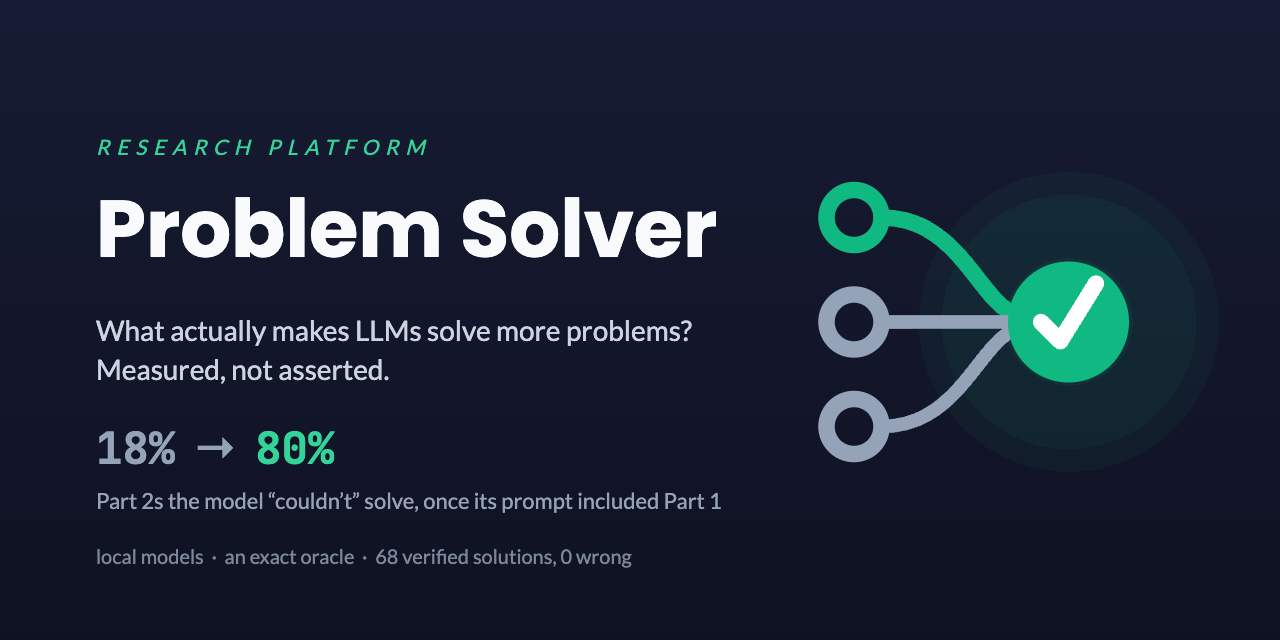
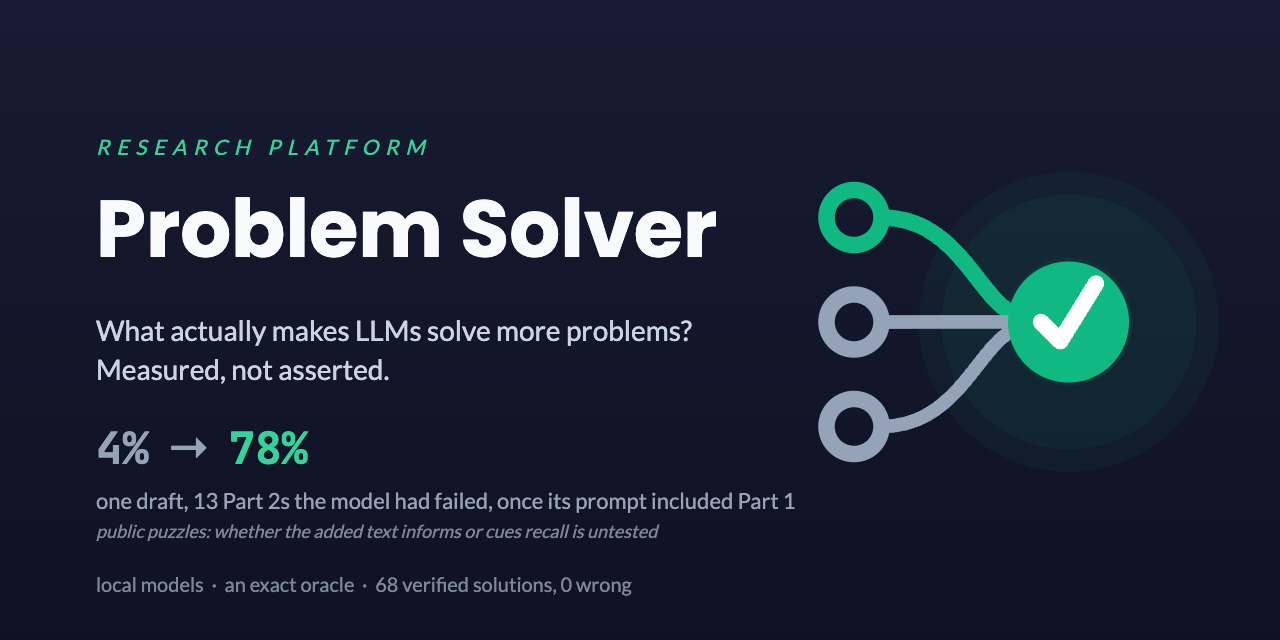
Matched headline with its contamination caveat; held-out test plan; token bound 3.09x
The headline compared 13/71 (all trials, any draft count) with 32/40 (single
drafts, Part 1 solved). Matched on single drafts and the same 13 problems it is
2/53 -> 29/37; the d19 p2 A/B (6/20 -> 19/19) is the controlled test. The
contamination section now says the prompt fix and model choice are not covered
by the same-inputs argument. part2-context-heldout-plan.md registers the test
that separates information from recall. The arm-2 token lower bound is 3.096x,
so 'at least 3.10x' becomes 'at least 3.09x'.

Changed region(s): [[0.0625, 0.6562, 0.625, 0.9375]]

diff --git a/assets/social-preview.html b/assets/social-preview.html
@@ -23,6 +23,7 @@
   .stat .to { color: #34d399; }
   .stat .arrow { font-family: Lato, sans-serif; margin: 0 18px; }
   .caption { font-size: 22px; color: #94a3b8; margin-top: 10px; }
+  .caveat { font-size: 18px; color: #7c879b; margin-top: 6px; font-style: italic; }
   .footer { font-size: 20px; color: #7c879b; margin-top: 30px; }
   .glyph { position: absolute; left: 810px; top: 168px; }
   /* centred on the glyph's check circle (47, 28 of 60 x 56) */
@@ -38,8 +39,9 @@
     <div class="kicker">RESEARCH PLATFORM</div>
     <h1>Problem Solver</h1>
     <div class="question">What actually makes LLMs solve more problems?<br>Measured, not asserted.</div>
-    <div class="stat">18%<span class="arrow">&rarr;</span><span class="to">80%</span></div>
-    <div class="caption">Part 2s the model &ldquo;couldn&rsquo;t&rdquo; solve, once its prompt included Part 1</div>
+    <div class="stat">4%<span class="arrow">&rarr;</span><span class="to">78%</span></div>
+    <div class="caption">one draft, 13 Part 2s the model had failed, once its prompt included Part 1</div>
+    <div class="caveat">public puzzles: whether the added text informs or cues recall is untested</div>
     <div class="footer">local models &nbsp;&middot;&nbsp; an exact oracle &nbsp;&middot;&nbsp; 68 verified solutions, 0 wrong</div>
   </div>
   <div class="halo"></div>

diff --git a/RESULTS.md b/RESULTS.md
@@ -9,8 +9,10 @@ can be A/B'd for a real delta over repeat trials.
 
 - **The biggest effect was the harness.** Until 2026-10-13 every Part 2 was posed without its
   Part 1 statement, and the model appeared to fall off a cliff between the two parts. With the
-  statement in the prompt, the reference model solves 32 of 40 trials of the Part 2s it had
-  failed, against 13 of 71 before. What looked like a capability limit was a measurement defect.
+  statement in the prompt, single drafts on 13 Part 2s the reference had failed went from 2 of 53
+  trials solved to 29 of 37; in the controlled test, 2024 d19 p2, from 6/20 to 19/19. What looked
+  like a capability limit was mostly missing information. The puzzles are public, so the added
+  text may also cue recall; that is not yet separated (see contamination).
 - **Sampling helps where a single draft succeeds part of the time, and the draws behave as
   independent.** Under the original harness, three attempts with repair took the model's
   "sometimes" problems from 42% to 75%, replicated on a second year (combined p ≈ 0.005). Under the
@@ -22,7 +24,7 @@ can be A/B'd for a real delta over repeat trials.
   mix had nothing to add. Repair also depends on the model: 2 of the reference's 145 solves came
   from repair, against 14 of 131 for that candidate.
 - **Cheap draws win on time and lose on tokens.** A fast weak model taking four times the draws
-  costs 0.64× the wall-clock per solution and at least 3.10× the tokens, and does not reach the
+  costs 0.64× the wall-clock per solution and at least 3.09× the tokens, and does not reach the
   strong model's ceiling.
 - **What still fails is mostly speed.** On the hardest problems the commonest failure is a
   program that runs past the 60 s timeout on the full input, often after passing the example.
@@ -70,10 +72,17 @@ input. Re-run under it:
 
 | | original harness | corrected harness |
 |---|---|---|
-| 2024 d19 p2 | 6/20 | **19/19** (Fisher p = 2.6e-6) |
+| 2024 d19 p2, one draft, only the context changed | 6/20 | **19/19** (one-sided Fisher p = 2.6e-6) |
 | 2024 d16 p2 | 0/7 | **3/3** |
-| 2025 d9 p2 | 0/22, three models | **3/5** at three drafts |
-| the reference's 15 other failing Part 2s | 13/71 | **32/40** reached, against 40/45 for their Part 1s |
+| 2025 d9 p2 | 0/22, three models (the reference 0/16) | **3/5** at three drafts |
+| 13 other Part 2s the reference had failed, one draft | 2/53 | **29/37** |
+
+The d19 row is the controlled A/B: same machine, a day apart, 20 trials each, the context the
+only setting changed, prediction registered. The 13-problem row is broader and less controlled:
+its "before" trials ran on two machines between August and October, its "after" run also changed
+the example source and the analysis temperature, and it counts only trials whose Part 1 was
+solved (5 were not). Counting every trial at any number of drafts, those Part 2s were 13/71 on
+record and 32/40 after; 11 of the 13 earlier solves came from three-draft trials.
 
 Ten Part 2s the reference had never solved were solved, and the ledger went from 56 to 66. The
 Part 1/Part 2 cliff seen in both years' scans is not established; the "walls" that had become
@@ -136,11 +145,11 @@ At a matched wall-clock budget, a fast weak model taking many draws vs a slow st
 | config | solved | **s / verified solution** | **tokens / verified solution** |
 |---|---|---|---|
 | `qwen3.8:27b` k=3 (slow, strong) | **8/8** | 1,389 s | **38,460** |
-| `qwen3-coder:30b` k=12 (fast, weak) | 7/8 | **891 s** (0.64×) | ≥119,068 (≥3.10×) |
+| `qwen3-coder:30b` k=12 (fast, weak) | 7/8 | **891 s** (0.64×) | ≥119,068 (≥3.09×) |
 
 **The answer depends on which cost you actually pay.** For local GPU inference, where cost is
 *time*, many cheap draws win by 36% per verified solution. For a token-metered API they lose by
-at least 3.10× (a lower bound: the five repair records' own cost was not recorded, see the defect
+at least 3.09× (a lower bound: the five repair records' own cost was not recorded, see the defect
 table). And volume does not close the capability gap — 7/8 vs 8/8.
 
 **The useful form of the claim:** *cheap draws beat one expensive pass when the binding cost is time,
@@ -263,7 +272,7 @@ Twelve instrument defects, each of which made results *look better or worse than
 | Repair ignored the configured temperature | a temperature experiment reached only ~1/3 of generations |
 | `success_rate` recorded at generation time, `success=True` for anything that parsed | **the sole signal model ranking used measured "returned code", not "solved the problem"** |
 | `StrategyOptimizer` read a second, dead database (0 rows) | strategy effectiveness computed over no data at all |
-| That token fix stopped at the provider; the solver kept copying the draft's tokens and time onto every repair record *(found 2026-10-12)* | **642 of 642 repair records wrong, in runs after the "fix" too**; arm 2's 3.35× is really "at least 3.10×" |
+| That token fix stopped at the provider; the solver kept copying the draft's tokens and time onto every repair record *(found 2026-10-12)* | **642 of 642 repair records wrong, in runs after the "fix" too**; arm 2's 3.35× is really "at least 3.09×" |
 | Part 2 prompts carried only the "Part Two" article: no rules, no input format *(found 2026-10-13)* | **on 2024 d19 p2 a draft was right only if it guessed the format (16 of 26 that did, 0 of 54 that did not)**; re-run with the statement, the Part 1/Part 2 cliff and most Part 2 walls dissolved (above) |
 | Example tests paired with an illustration instead of the example input *(found 2026-10-13, fixed 2026-10-14)* | a verified program failed its own example test on 25 of 46 audited problems (3 after the fix); solves are unaffected (the oracle decides), **every repair prompt on those problems carried a false failure** |
 | A last day's "Part Two" with no puzzle was attempted and scored as a miss *(found 2026-10-12)* | denominators off by one in two scans (16/24, 9/20), and **a nonexistent problem written up as "the first genuinely unseen problem"** |
@@ -295,13 +304,26 @@ seen more of this benchmark". A newer model is both stronger *and* more likely t
 2024/2025 corpus, and those two explanations are entangled here. **Treat the capability numbers as
 descriptive of this testbed, not as a capability measurement.**
 
-**Largely robust to contamination — the orchestration comparisons.**
-Arm 1 compares *configurations of the same model on the same problems*. Whatever the model
-memorized, it memorized identically in both arms, so contamination cannot explain a difference
-between k=1 and k=3. Arm 2 compares two models, so its 7/8 against 8/8 shares the capability
-caveat; its time-against-tokens split is a cost ratio per solution and less exposed. The mechanism
-findings — that sampling converts "sometimes" into "solved", that volume buys stochastic but not
-systematic failures — do not depend on the problems being unseen.
+**Largely robust to contamination — comparisons that change only the strategy.**
+Arm 1 compares *configurations of the same model on the same problems with the same prompt*.
+Whatever the model memorized, it memorized identically in both arms, so contamination cannot
+explain a difference between k=1 and k=3. Arm 2 compares two models, so its 7/8 against 8/8 shares
+the capability caveat; its time-against-tokens split is a cost ratio per solution and less
+exposed. The mechanism findings — that sampling converts "sometimes" into "solved", that volume
+buys stochastic but not systematic failures — do not depend on the problems being unseen.
+
+**Not covered by that argument — comparisons that change the prompt or the model.**
+- *The Part 2 prompt fix.* Adding the Part 1 statement changes the input, not just the strategy.
+  The added text carries the rules and input format the model lacked, and it is also the puzzle's
+  published wording, which can cue recall of solutions seen in training. The before/after rates
+  show the fix works on these puzzles; they cannot show how much is information and how much is
+  recall. The saved drafts do show why the old prompt failed: on 2024 d19 p2 none of the 54 first
+  drafts that guessed the input format wrong was correct, which is missing information, not
+  missing capability. A test that separates information from recall is designed in
+  `dev/progress/part2-context-heldout-plan.md`.
+- *Model choice (arm 3).* `muse-glimmer:30b` solved 2024 d14 p2 10 of 10 times against the
+  reference's 1 of 10. Two models trained on different data may have memorized different puzzles,
+  so this compares capability and shares the caveat above.
 
 **A partial argument against pure memorization, offered as weak evidence only.**
 Under the original harness the frontier band consisted of problems the model solved *sometimes* —

diff --git a/README.md b/README.md
@@ -16,8 +16,11 @@ and, more to the point, whether that could be *measured* rather than asserted.
 >   judge (an *oracle*) runs each one against the real input and checks it against the known-correct
 >   answer, so every claim about orchestration is an A/B over repeat trials.
 > - **The biggest effect was the harness, not the strategy.** Part 2 prompts were missing the Part 1
->   statement. Fixed, the reference model solves 32 of 40 trials of the Part 2s it had failed
->   (13 of 71 before): an apparent capability cliff was a measurement defect.
+>   statement, so drafts had to guess the rules and input format. On 13 Part 2s the reference
+>   model had failed, single drafts went from 2 of 53 trials solved to 29 of 37 once the prompt
+>   included Part 1: an apparent capability cliff was mostly missing information. *Caveat:* the
+>   puzzles are public, and the added Part 1 text is also their published wording, which may cue
+>   recall; a test that separates the two is planned.
 > - **Sampling helps where a single draft succeeds part of the time**, because draws behave as
 >   independent. It took the model's "sometimes" problems from **42% to 75%** under the original
 >   harness, replicated on a second year; under the corrected harness few problems sit in that
@@ -26,8 +29,9 @@ and, more to the point, whether that could be *measured* rather than asserted.
 >   the reference solved 1 of 10, with nothing found the other way. Cheap draws win on time and lose
 >   on tokens.
 > - **The caveat** — the puzzles are public and pre-date the models, so a model may have trained on
->   solutions. That softens the *"how capable is the model?"* numbers, not the comparisons of one
->   strategy against another on the same problems.
+>   solutions. That softens the *"how capable is the model?"* numbers and any comparison that
+>   changes the prompt or the model, not comparisons of one strategy against another with the same
+>   model, prompt and problems.
 > - **Where to go next** — [RESULTS.md](RESULTS.md) for the full science · [How it works](#how-it-works)
 >   for the pipeline · [Getting started](#getting-started) to run it yourself.
 
@@ -53,8 +57,8 @@ and, more to the point, whether that could be *measured* rather than asserted.
 - **Self-repair** — show the model its own execution error (the traceback) and let it try again. Adds
   real information, not just another roll of the dice.
 - **Contamination** — the puzzles are public and predate the models, so a model may have trained on
-  solutions to them. It muddies *"how capable is the model"* but not *"does coordinating attempts
-  help."*
+  solutions to them. It muddies *"how capable is the model"*, and any comparison that changes the
+  prompt or the model, but not a comparison of strategies with the same model, prompt and problems.
 
 </details>
 
@@ -102,9 +106,15 @@ statement, answer and program in the prompt:
 
 | | before | after |
 |---|---|---|
-| 2024 d19 p2 | 6/20 | **19/19** |
-| 2025 d9 p2 (three models) | 0/22 | **3/5** |
-| the reference's 15 other failing Part 2s | 13/71 | **32/40** |
+| 2024 d19 p2, one draft, only the context changed | 6/20 | **19/19** |
+| 13 other Part 2s the reference had failed, one draft | 2/53 | **29/37** |
+| 2025 d9 p2, three drafts | 0/22 (three models) | **3/5** |
+
+The 13-problem row compares single-draft trials only; its "before" trials ran on two machines
+over two months, and its "after" changed two smaller settings alongside the context. The d19 row
+is the controlled test. The puzzles are public, so the added Part 1 text is information and also
+possibly a memory cue ([contamination](RESULTS.md#training-data-contamination-the-largest-threat-to-validity));
+`dev/progress/part2-context-heldout-plan.md` designs the test that separates them.
 
 The "Part 1/Part 2 cliff" seen in two years of scans, and the "walls" that had become the project's
 most reproducible results, were mostly this defect. One Part 2, 2024 d24 p2, is still unsolved by
@@ -164,10 +174,10 @@ At a matched wall-clock budget, a fast weak model taking many draws vs a slow st
 | | solved | **s / verified solution** | **tokens / verified solution** |
 |---|---|---|---|
 | `qwen3.8:27b` k=3 (slow, strong) | **8/8** | 1,389 s | **38,460** |
-| `qwen3-coder:30b` k=12 (fast, weak) | 7/8 | **891 s** (0.64×) | ≥119,068 (≥3.10×) |
+| `qwen3-coder:30b` k=12 (fast, weak) | 7/8 | **891 s** (0.64×) | ≥119,068 (≥3.09×) |
 
 For local GPU inference, where cost is *time*, many cheap draws win by 36% per verified solution.
-For a token-metered API they lose by at least 3.1×. And volume does not close the capability gap —
+For a token-metered API they lose by at least 3.09×. And volume does not close the capability gap —
 7/8 vs 8/8. (`economic-arm-moe-vs-generalist.md`)
 
 **6. Model *generation* beats model *size*.**
@@ -332,7 +342,7 @@ corrected harness the draft rates are mostly near 0% or 100%, three drafts gave 
 and the arm awaits a powered test on 2025 d9 p2 (finding 2).
 
 **Arm 2 — economics, and it splits.** *Many cheap draws beat one expensive pass* is **true on
-wall-clock** (0.64× per verified solution) and **false on tokens** (at least 3.1×), and volume does not reach
+wall-clock** (0.64× per verified solution) and **false on tokens** (at least 3.09×), and volume does not reach
 the stronger model's ceiling (7/8 vs 8/8). The useful form of the claim: *cheap draws win when the
 binding cost is time, not tokens, and only up to the cheap model's ceiling.*
 (`economic-arm-moe-vs-generalist.md`)

diff --git a/dev/progress/part2-context-heldout-plan.md b/dev/progress/part2-context-heldout-plan.md
@@ -1,0 +1,86 @@
+# Plan: does the Part 1 context inform, or cue recall? — registered design, not yet run
+
+**Status (2026-11-09): design only.** No code written, nothing run. Needs the maintainer's go, a
+small harness change (below), and hand-checked text variants for ten problems.
+
+## The question
+
+Posing Part 2 with Part 1's statement raised single-draft solves from 6/20 to 19/19 on 2024 d19 p2
+(the controlled A/B, `part2-prompt-omits-part1.md`) and from 2/53 to 29/37 on 13 other Part 2s the
+reference had failed (`m5pro-rescan-part2-aoc.md`). The added text does two things at once. It
+supplies the rules and input format, and it is the puzzle's published wording, which can cue
+recall of solutions the model saw in training. The external claim, "missing context looked like a
+capability limit", needs the first to carry the effect. The saved d19 drafts show the old prompt
+failed for want of information (none of the 54 drafts that guessed the input format wrong was
+correct); they do not show that the fix works by information alone.
+
+## Arms
+
+The corrected context is a bundle: Part 1's statement, its accepted answer, a Part 1 program, and
+a preview of the input (`shared/problem_context.py`). Only the statement is published wording, so
+the arms vary the statement and hold the rest fixed.
+
+| arm | Part 1 statement | rest of the bundle | tests |
+|---|---|---|---|
+| **A0 cold** | none | none | baseline (`problem_context=legacy`) |
+| **A1 verbatim** | published text | yes | the current default |
+| **A2 paraphrase** | same rules, input format and worked example; new story, names and wording; example values changed and its answer recomputed with the verified Part 1 solution | yes | information without the published wording |
+| **A3 cue only** | published text with the input-format description and worked example removed; title, story and distinctive phrasing kept | no | the recall cue without the information |
+
+The Part 2 article is published wording in every arm, A0 included, so A3 measures the cue that
+Part 1's text *adds*.
+
+**Held constant across arms:** model `qwen3.8:27b`, `samples_per_model=1`, `temperature=0.7`,
+`enable_thinking=false`, `enable_fallback_models=false`, the current `example_tests` and
+`analysis_temperature`, one machine (`m5pro-64`), one Ollama version, arm order rotated within
+each trial so drift cannot line up with an arm. Part 2 is posed directly in every arm, with the
+verified Part 1 program where the bundle is used, so no arm depends on the trial solving Part 1
+first (the rescan lost 5 of 45 trials to that gate).
+
+**Cells (10):** 2024 d9, d11, d14, d16, d18, d19, d20, d22 p2; 2025 d2, d4 p2. Each was solved by
+at most one single draft under the old prompt and by most drafts under the new one, so the arms
+have room to differ in both directions.
+
+## Size and time
+
+3 trials per cell per arm, 30 Part 2 trials per arm, 120 in all. At the observed rates
+(A0 about 5%, A1 about 85%), 30 per arm detects a 30-point difference with about 80% power at
+one-sided α = 0.05 (80% against 50% needs 30 per arm; 5% against 30% needs 25). It cannot show
+two arms are *equal*: the 95% interval on a difference at n = 30 is roughly ±20 points, so "A2
+matches A1" is read as "within that interval", not as equivalence. Trials cluster by problem;
+per-cell results are reported alongside the pooled rate.
+
+Time on `m5pro-64`: a single-draft Part 2 trial took 91–250 s in the d19 A/B and the rescan; at
+about 200 s, 120 trials is **about 7 GPU-hours**, run in two or three chunks, plus a `--trials 3`
+plumbing check of the new arms on one cell first.
+
+## Registered predictions and readings
+
+Written before any run; rates are pooled over the 10 cells.
+
+| outcome | reading |
+|---|---|
+| A2 within 15 points of A1, and A3 within 15 points of A0 | **information carries the effect.** The headline stands as stated. |
+| A3 at least 25 points above A0 | **the published wording alone helps**, so recall contributes; the headline must say so. |
+| A2 at least 25 points below A1 | **the wording matters beyond its information**; same consequence. |
+| anything else | inconclusive at this size; report the intervals, do not restate the headline. |
+
+## The clean confirmation: AoC 2026
+
+Paraphrase removes the published wording but not the puzzle's structure, which a model may also
+recall. Problems published after the model's training cutoff remove both. AoC 2026 opens
+2026-12-01 with 12 days: run **A0 against A1** on each day's Part 2, single draft, 3 trials per
+arm, once Part 1 is solved on the account (Part 2's text is only visible then). About 36 trials per
+arm and about 4 GPU-hours spread over the event. **A1 at least 30 points above A0** on unseen
+problems confirms that the context effect does not need recall; a gap under 15 points undercuts
+the headline whatever the paraphrase arms showed.
+
+## What it needs before running
+
+- **Harness:** `problem_context` values for A2 and A3 that read a per-problem Part 1 text file,
+  and a runner option that poses Part 2 without running Part 1 first. Both enter the fingerprint.
+- **Text variants:** ten paraphrases and ten cue-only versions, drafted and then checked by hand
+  against the original for preserved (A2) or removed (A3) information. They derive from AoC's
+  text, so they live under `years/` (gitignored) like the originals, with their hashes recorded
+  in the result write-up.
+- **AoC 2026:** the submitter wired, or Part 1 solved by hand each day (`PLAN.md`, §5).

diff --git a/PLAN.md b/PLAN.md
@@ -636,7 +636,7 @@ bug is fixed** (below): a cost claim measured with broken cost accounting is wor
   usage, so repair records kept copying their draft's tokens and time, in every run before and
   after it (642 of 642). ✅ **Fixed at the record 2026-10-12** (`repair-accounting-unwired.md`).
   Old token totals are neither upper nor lower bounds; the draft-only sum is a lower bound. Arm 2's
-  3.35× becomes "at least 3.10×".
+  3.35× becomes "at least 3.09×".
 - ~~**Repair calls that yield no new candidate leave no record.**~~ ✅ **FIXED 2026-10-13**: each
   is recorded as a `repair` / `no_candidate` attempt with its own tokens and time. Attempt counts
   from that date include them.
@@ -713,7 +713,7 @@ own thesis and neither of the other two. **Three steps finish every arm, then on
    targets first, and only run an ensemble if one solves something the others reliably miss.*
 3. ~~**The economic A/B**~~ — ✅ **DONE 2026-08-23** (`economic-arm-moe-vs-generalist.md`).
    **Arm 2 splits by which cost you pay:** per verified solution the fast weak model at k=12 is
-   **0.64× the wall-clock** (891 s vs 1,389 s) but **3.35× the tokens** (128,730 vs 38,460; *at least 3.10× after the 2026-10-12 correction*), and it
+   **0.64× the wall-clock** (891 s vs 1,389 s) but **3.35× the tokens** (128,730 vs 38,460; *at least 3.09× after the 2026-10-12 correction*), and it
    does not reach the ceiling (7/8 vs 8/8). True for local GPU inference, false for token-metered
    APIs, and bounded by the cheap model's ceiling. Volume bought the stochastic failure (d5 p1,
    ~25%/draw parsing) and not the systematic one (d6 p2, 6/6 identical `TypeError`s).

diff --git a/dev/progress/repair-accounting-unwired.md b/dev/progress/repair-accounting-unwired.md
@@ -61,7 +61,7 @@ call carrying the failed code and its feedback; a draft is an analysis call plus
 call. Which is larger was not known when this was written, so the old totals are neither upper
 nor lower bounds. *(First measurement, 2026-10-12, `m5pro-d19p2-power.md`: a repair cost about a
 quarter of a draft — 1.5–2.1k tokens against 7k — on one problem and one model. If that holds
-elsewhere the old totals overstate, and arm 2's ratio lies between 3.10× and 3.35×.)* **The
+elsewhere the old totals overstate, and arm 2's ratio lies between 3.09× and 3.35×.)* **The
 draft-only sum is a firm lower bound on a run's true cost**, and is what the corrections below use.
 
 ## Claims that rested on token totals
@@ -69,7 +69,7 @@ draft-only sum is a firm lower bound on a run's true cost**, and is what the cor
 - **Arm 2, "loses 3.35× on tokens"** (`economic-arm-moe-vs-generalist.md`). The generalist arm
   made no repairs, so its 307,684 is sound. The MoE arm's 901,111 includes 67,635 copied onto 5
   repair records; its drafts alone are 833,476, or 119,068 per verified solution. **The ratio is
-  at least 3.10×**, and higher by whatever the five repairs really cost. The direction and rough
+  at least 3.09×**, and higher by whatever the five repairs really cost. The direction and rough
   size of the finding stand; the figure 3.35× is not a measurement.
 - **Arm-3 pre-check, "no token penalty"** (`arm3-precheck-qwen36-35b.md`). 44–48% of both arms'
   totals were copies. On drafts alone: candidate 803,969 for 7 solves (115k each), reference

diff --git a/dev/progress/checkpoint.md b/dev/progress/checkpoint.md
@@ -238,7 +238,7 @@ The 2026-08-22 token fix corrected the provider only; the solver went on recordi
 attempt with the draft's tokens, time and quality score — 642 of 642 repair records in 64
 artifacts, 38% of all recorded tokens. Fixed in `_execute_and_repair` with a test on the records.
 Unaffected: every solve rate, per-problem and per-run wall-clock, the ledger. Affected: all token
-totals. Arm 2's "3.35× on tokens" is now "at least 3.10×" (draft-only lower bound); the arm-3
+totals. Arm 2's "3.35× on tokens" is now "at least 3.09×" (draft-only lower bound); the arm-3
 pre-check's "no token penalty" holds on drafts alone (115k vs 128k per solve). Token figures quoted
 above for m5pro runs include the copies; draft-only values are in that doc. Runs from here on
 record repair cost properly.
@@ -272,7 +272,7 @@ fresh post-token-fix, 0 wrong/unverified/overfit).
 | `qwen3-coder:30b` k=12 | 7/8 | **891 s (0.64×)** | 128,730 (3.35×) |
 
 **Arm 2 splits by which cost you pay:** cheap draws win on **time** (36% cheaper per solution), lose
-on **tokens** (3.35×; *at least 3.10× after the 2026-10-12 correction, see top*), and do not reach the ceiling. *True for local GPU inference, false for
+on **tokens** (3.35×; *at least 3.09× after the 2026-10-12 correction, see top*), and do not reach the ceiling. *True for local GPU inference, false for
 token-metered APIs, bounded by the cheap model's ceiling* — sharper than the original claim.
 
 **Pre-registered prediction held:** volume bought d5 p1 (~25%/draw parsing failure — stochastic) and

diff --git a/dev/progress/m5pro-rescan-part2-aoc.md b/dev/progress/m5pro-rescan-part2-aoc.md
@@ -46,6 +46,11 @@ those already re-run (2024 d15, d16, d19; 2025 d9) and the two days with no Part
 - **The Part 2 record was mostly the prompt.** 13 of 71 legacy trials against 32 of 40 reached
   now. Eight of the fifteen are solved every time; ten of the twelve that the reference had
   never solved now have been.
+- **Matched on draft count:** the legacy column pools trials at one and three drafts, and 11 of
+  its 13 solves came from three-draft trials. Single-draft trials only, on the 13 cells that have
+  them and reached Part 2 here (all but 2024 d6 and d21): **2/53 before, 29/37 now.** The legacy
+  trials ran on the M2 Max in August and the M5 Pro in October; this run also changed the example
+  source and the analysis temperature (fingerprint `1ac712678732`).
 - **Every Part 2 solve was a first draft.** No repair was accepted.
 - **Ledger 56 → 66, 0 wrong** (`dev/verify_solutions.py`): ten first verified Part 2s (2024 d9,
   d11, d14, d17, d18, d20, d22; 2025 d2, d4, d10).

diff --git a/dev/progress/economic-arm-moe-vs-generalist.md b/dev/progress/economic-arm-moe-vs-generalist.md
@@ -3,7 +3,7 @@
 > **Correction, 2026-10-12.** The MoE arm's token total includes 67,635 tokens copied from drafts
 > onto 5 repair records (`repair-accounting-unwired.md`). On drafts alone it is 833,476, or
 > 119,068 per verified solution, against the generalist's 38,460 (no repairs, sound). **Read
-> "3.35×" below as "at least 3.10×".** Solve counts and wall-clock are unaffected.
+> "3.35×" below as "at least 3.09×".** Solve counts and wall-clock are unaffected.
 
 **At a matched wall-clock budget, a fast weak model taking many draws beats a slow strong model
 taking few — per unit time. On tokens it loses by 3.35×. And it does not reach the same ceiling.**
